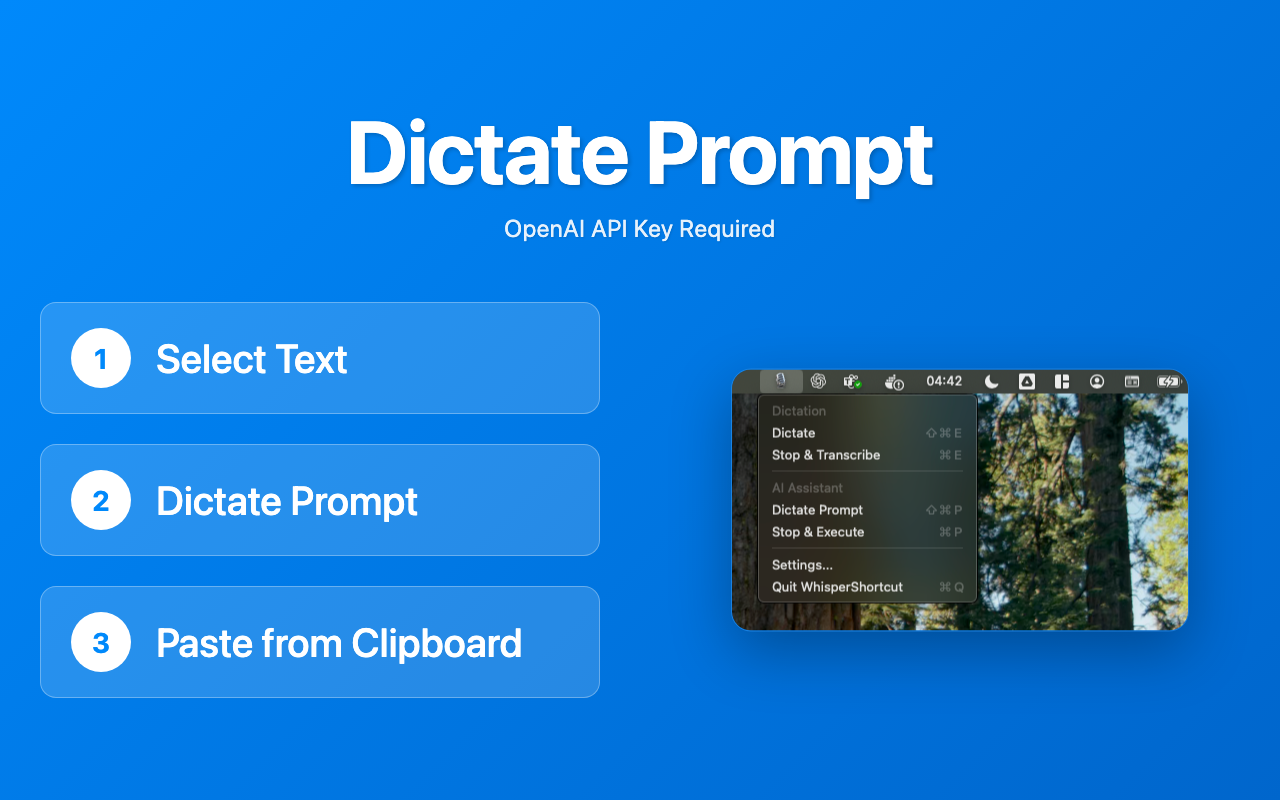
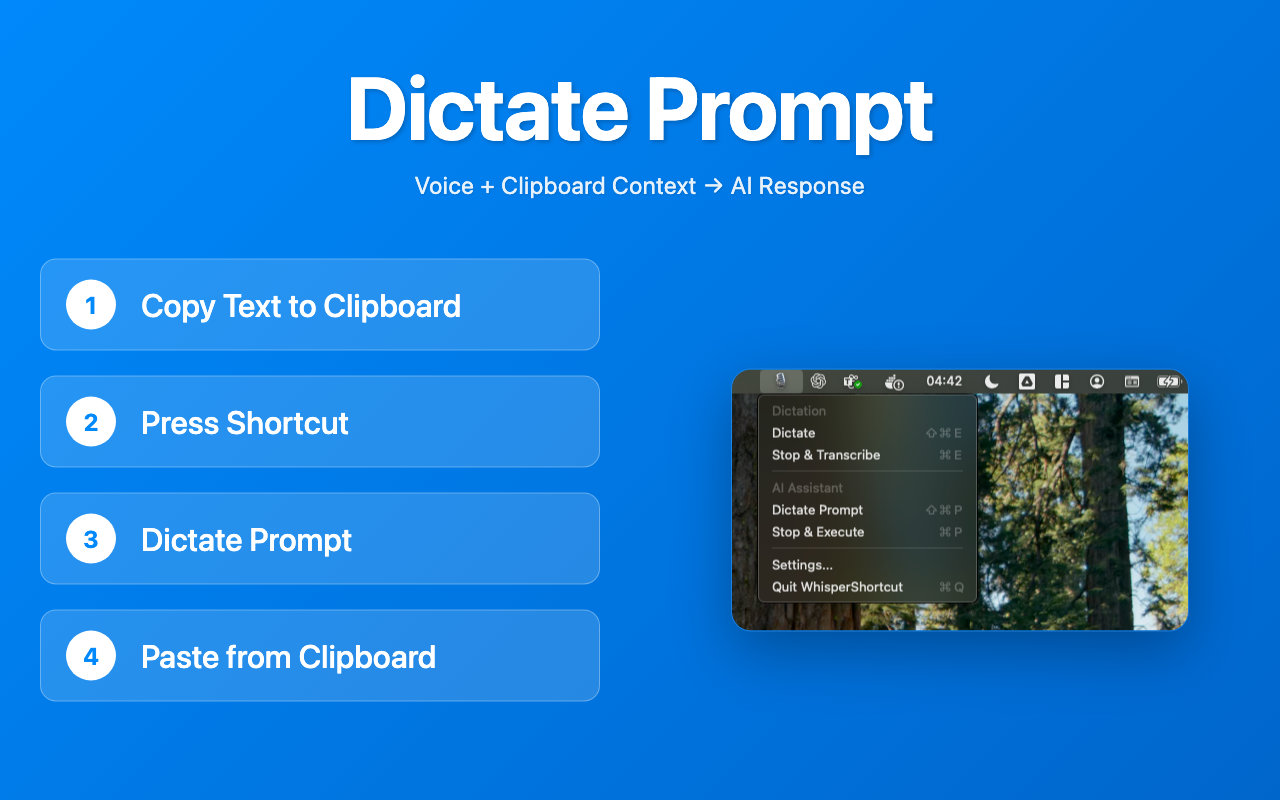
Improve screenshots.

Changed region(s): [[0.0312, 0.2812, 0.625, 0.875], [0.25, 0.0938, 0.75, 0.25]]

diff --git a/screenshots/prompt-screenshot.html b/screenshots/prompt-screenshot.html
@@ -59,37 +59,38 @@
         .steps {
             display: flex;
             flex-direction: column;
-            gap: 30px;
+            gap: 25px;
             flex: 1;
             max-width: 600px;
+            margin-bottom: 40px;
         }
 
         .step {
             display: flex;
             align-items: center;
             gap: 25px;
-            padding: 25px 30px;
+            padding: 20px 25px;
             background: rgba(255, 255, 255, 0.15);
             border-radius: 16px;
             border: 1px solid rgba(255, 255, 255, 0.3);
         }
 
         .step-number {
-            width: 60px;
-            height: 60px;
+            width: 50px;
+            height: 50px;
             background: #ffffff;
             border-radius: 50%;
             display: flex;
             align-items: center;
             justify-content: center;
-            font-size: 28px;
+            font-size: 24px;
             font-weight: 700;
             color: #0089fb;
             flex-shrink: 0;
         }
 
         .step-text {
-            font-size: 40px;
+            font-size: 32px;
             font-weight: 500;
             color: #ffffff;
         }
@@ -137,21 +138,25 @@
 <body>
     <div class="header">
         <h1 class="app-title">Dictate Prompt</h1>
-        <p class="app-subtitle">OpenAI API Key Required</p>
+        <p class="app-subtitle">Voice + Clipboard Context → AI Response</p>
     </div>
 
     <div class="main-content">
         <div class="steps">
             <div class="step">
                 <div class="step-number">1</div>
-                <div class="step-text">Select Text</div>
+                <div class="step-text">Copy Text to Clipboard</div>
             </div>
             <div class="step">
                 <div class="step-number">2</div>
-                <div class="step-text">Dictate Prompt</div>
+                <div class="step-text">Press Shortcut</div>
             </div>
             <div class="step">
                 <div class="step-number">3</div>
+                <div class="step-text">Dictate Prompt</div>
+            </div>
+            <div class="step">
+                <div class="step-number">4</div>
                 <div class="step-text">Paste from Clipboard</div>
             </div>
         </div>
